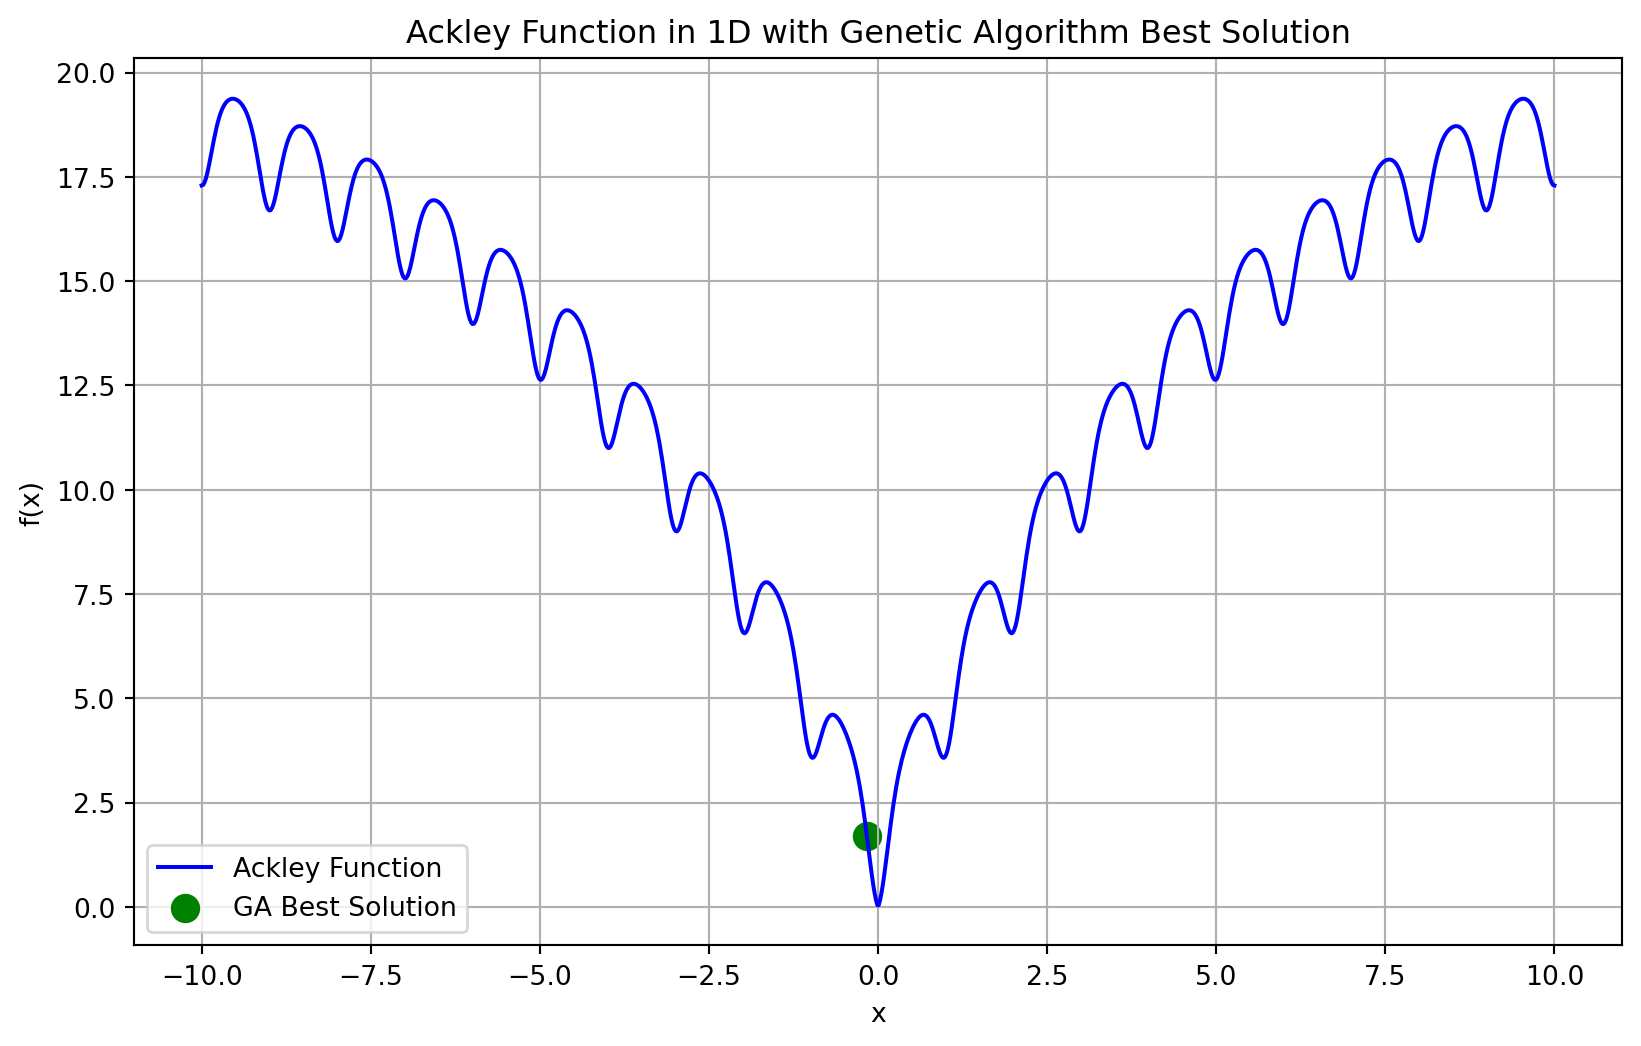
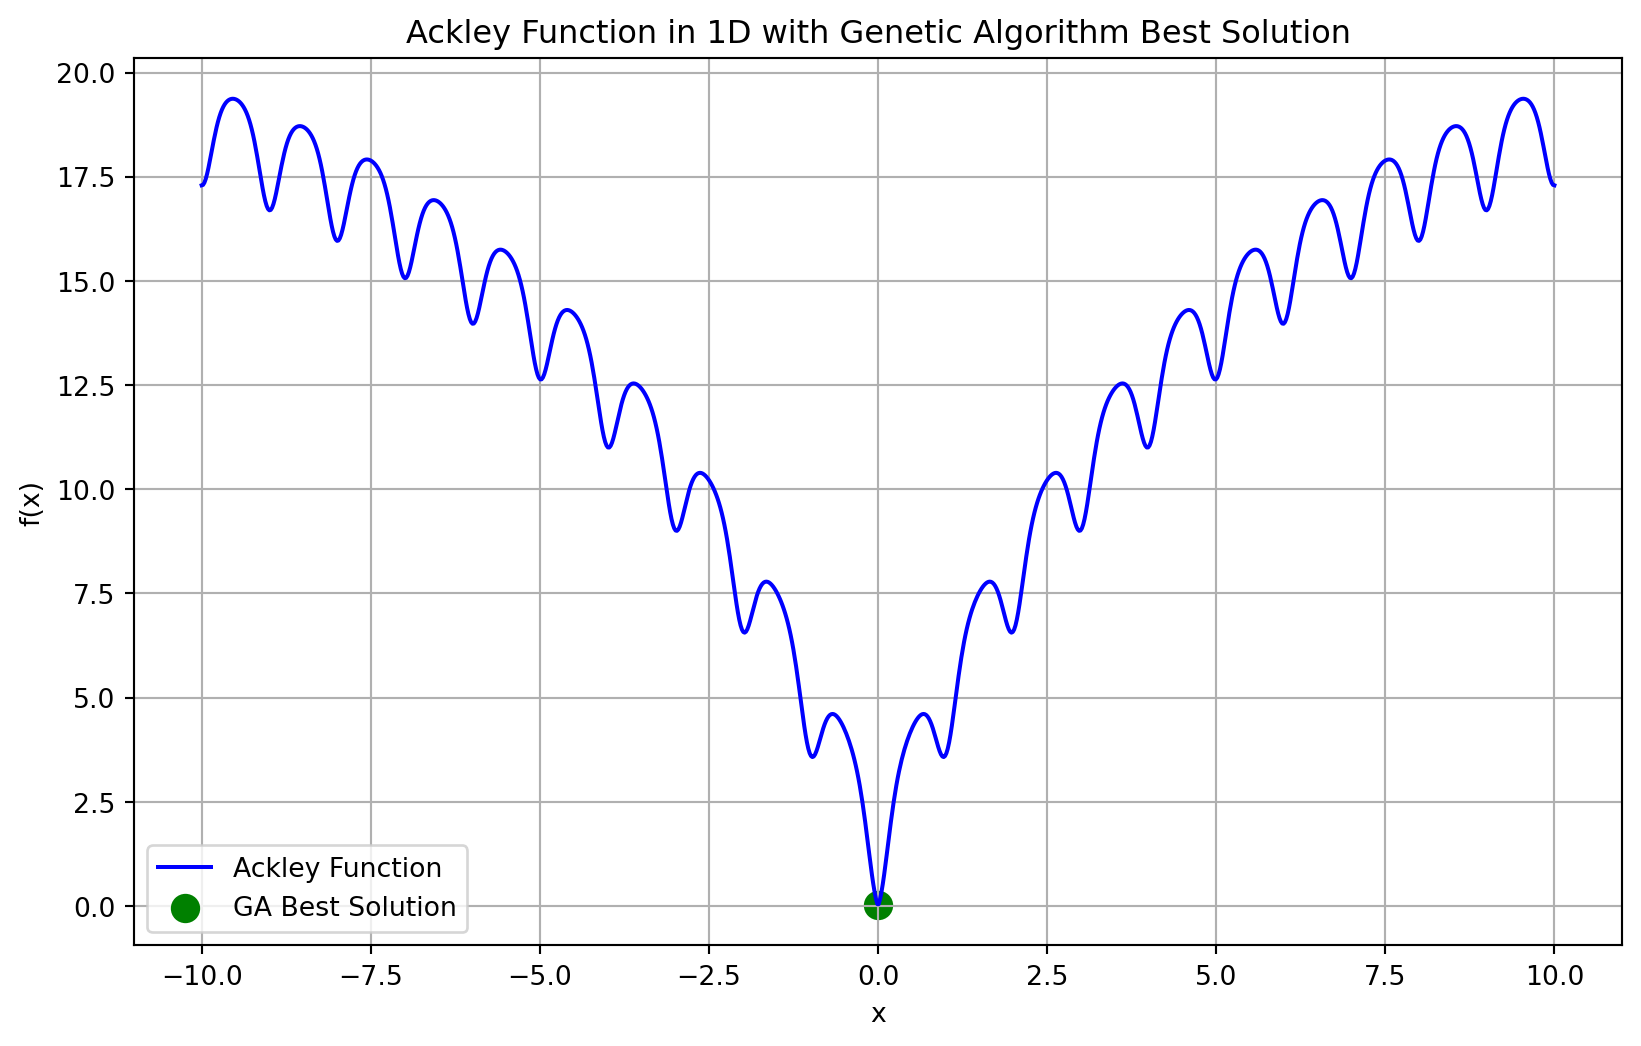
update GA

diff --git a/docs/ga.html b/docs/ga.html
@@ -292,11 +292,7 @@ window.Quarto = {
   <li><a href="#fitness-function-alternatives-in-heuristic-models" id="toc-fitness-function-alternatives-in-heuristic-models" class="nav-link" data-scroll-target="#fitness-function-alternatives-in-heuristic-models">Fitness Function Alternatives in Heuristic Models</a></li>
   <li><a href="#approaches-to-optimize-the-mutation-rate" id="toc-approaches-to-optimize-the-mutation-rate" class="nav-link" data-scroll-target="#approaches-to-optimize-the-mutation-rate">Approaches to Optimize the Mutation Rate</a></li>
   </ul></li>
-  <li><a href="#comparing-ga-to-sa" id="toc-comparing-ga-to-sa" class="nav-link" data-scroll-target="#comparing-ga-to-sa">Comparing GA to SA</a></li>
-  <li><a href="#genetic-algorithms-1" id="toc-genetic-algorithms-1" class="nav-link" data-scroll-target="#genetic-algorithms-1">Genetic Algorithms</a>
-  <ul class="collapse">
-  <li><a href="#comparison-with-simulated-annealing-sa" id="toc-comparison-with-simulated-annealing-sa" class="nav-link" data-scroll-target="#comparison-with-simulated-annealing-sa">Comparison with Simulated Annealing (SA)</a></li>
-  </ul></li>
+  <li><a href="#ga-example-one-max" id="toc-ga-example-one-max" class="nav-link" data-scroll-target="#ga-example-one-max">GA Example One Max</a></li>
   <li><a href="#ga-example-ackley" id="toc-ga-example-ackley" class="nav-link" data-scroll-target="#ga-example-ackley">GA Example Ackley</a>
   <ul class="collapse">
   <li><a href="#startup-commands" id="toc-startup-commands" class="nav-link" data-scroll-target="#startup-commands">Startup Commands</a></li>
@@ -309,6 +305,10 @@ window.Quarto = {
   <li><a href="#main-loop" id="toc-main-loop" class="nav-link" data-scroll-target="#main-loop">Main Loop</a></li>
   <li><a href="#main-execution" id="toc-main-execution" class="nav-link" data-scroll-target="#main-execution">Main Execution</a></li>
   <li><a href="#output-o" id="toc-output-o" class="nav-link" data-scroll-target="#output-o">Output (O)</a></li>
+  </ul></li>
+  <li><a href="#comparing-ga-to-sa" id="toc-comparing-ga-to-sa" class="nav-link" data-scroll-target="#comparing-ga-to-sa">Comparing GA to SA</a>
+  <ul class="collapse">
+  <li><a href="#comparison-gasa-with-ackley-function" id="toc-comparison-gasa-with-ackley-function" class="nav-link" data-scroll-target="#comparison-gasa-with-ackley-function">Comparison GA/SA with Ackley FUnction</a></li>
   </ul></li>
   <li><a href="#using-ai" id="toc-using-ai" class="nav-link" data-scroll-target="#using-ai">Using AI</a></li>
   <li><a href="#conclusions" id="toc-conclusions" class="nav-link" data-scroll-target="#conclusions">Conclusions</a></li>
@@ -669,49 +669,9 @@ window.Quarto = {
 </ul>
 </section>
 </section>
-<section id="comparing-ga-to-sa" class="level1">
-<h1>Comparing GA to SA</h1>
-<ul>
-<li>Multiple search directions: Compared to the single-solution-based metaheuristic algorithms (e.g., SA) that search only one solution at a time, GA searches for more than one solution at a time during the convergence process. Since GA will search for multiple directions or regions at a time, its search diversity will normally be much higher than single-solution-based metaheuristics that search for only one direction or region at a time during the convergence process. Selection operator: Another characteristic of GA is that it uses the selection and fitness function operators to determine solutions to be searched, not just based on the objective value of each solution. This kind of mechanism keeps the search process of GA from looking for the best solution in the population all the time so that it will not always choose the solution with the best objective or fitness value to search its neighbors again and again. Consequently, GA will not easily get stuck in local optima at early iterations.</li>
-<li>Crossover operator: This operator is one of the transition operators of GA, which plays the role of exchanging information between parent chromosomes, such as moving portions of the genes of a chromosome to another. This kind of mechanism allows GA to restructure its solutions to form new solutions in such a way that the structure of the new solutions is not confined to the structure of the initial solutions and may even inherit partial structures from their parents; as a consequence, the search process of GA will quickly jump from one region to another in the solution space during the convergence process.</li>
-<li>Mutation operator: This operator is another transition operator of GA, which ensures that the search process of GA is capable of escaping from a local optimum by changing the value of some genes randomly. Of course, this kind of mechanism will also play the role of fine-tuning the chromosomes of GA because only a few genes will be changed at a time.</li>
-</ul>
-</section>
-<section id="genetic-algorithms-1" class="level1">
-<h1>Genetic Algorithms</h1>
-<ul>
-<li>To compare Simulated Annealing (SA) with Genetic Algorithms (GA), we can implement a Genetic Algorithm for the same optimization problem (Ackley function) and then compare the two approaches based on:
-<ul>
-<li>Performance: Compare the final optimized values.</li>
-<li>Convergence Speed: How fast each algorithm converges to a solution.</li>
-<li>Exploration vs.&nbsp;Exploitation: How each method balances searching new areas (exploration) versus refining the current solution (exploitation).</li>
-</ul></li>
-</ul>
-<section id="comparison-with-simulated-annealing-sa" class="level3">
-<h3 class="anchored" data-anchor-id="comparison-with-simulated-annealing-sa">Comparison with Simulated Annealing (SA)</h3>
-<ul>
-<li>Population-based vs.&nbsp;Single Solution:
-<ul>
-<li>GA maintains and evolves a population of solutions.</li>
-<li>SA operates on a single solution and modifies it over time.</li>
-</ul></li>
-<li>Exploration Strategy:
-<ul>
-<li>GA uses crossover and mutation to explore the solution space, encouraging diversity.</li>
-<li>SA explores the space by making probabilistic changes to a single solution, allowing uphill moves early on (controlled by the temperature).</li>
-</ul></li>
-<li>Deterministic vs.&nbsp;Probabilistic:
-<ul>
-<li>GA uses deterministic selection mechanisms, such as tournament selection, and a fixed mutation rate.</li>
-<li>SA uses a temperature mechanism to probabilistically accept worse solutions early in the search.</li>
-</ul></li>
-<li>Convergence:
-<ul>
-<li>GA uses generations and selection pressure to converge on the best solution over time.</li>
-<li>SA cools down gradually, converging based on the temperature schedule. # GA example One Max</li>
-</ul></li>
-</ul>
-<div id="ead18bc9" class="cell" data-execution_count="1">
+<section id="ga-example-one-max" class="level1">
+<h1>GA Example One Max</h1>
+<div id="07b5520b" class="cell" data-execution_count="1">
 <div class="sourceCode cell-code" id="cb1"><pre class="sourceCode python code-with-copy"><code class="sourceCode python"><span id="cb1-1"><a href="#cb1-1" aria-hidden="true" tabindex="-1"></a><span class="im">import</span> numpy <span class="im">as</span> np</span>
 <span id="cb1-2"><a href="#cb1-2" aria-hidden="true" tabindex="-1"></a><span class="im">import</span> random</span>
 <span id="cb1-3"><a href="#cb1-3" aria-hidden="true" tabindex="-1"></a><span class="im">import</span> matplotlib.pyplot <span class="im">as</span> plt</span>
@@ -807,17 +767,16 @@ window.Quarto = {
 <div class="cell-output cell-output-stdout">
 <pre><code>Best solution: [1 1 1 1 1 1 1 1 1 1]
 Best fitness (one-max value): 10
-Execution time: 0.073588 seconds</code></pre>
+Execution time: 0.066705 seconds</code></pre>
 </div>
 <div class="cell-output cell-output-display">
 <div>
 <figure class="figure">
-<p><img src="ga_files/figure-html/cell-2-output-2.png" width="829" height="523" class="figure-img"></p>
+<p><img src="ga_files/figure-html/cell-2-output-2.png" width="821" height="523" class="figure-img"></p>
 </figure>
 </div>
 </div>
 </div>
-</section>
 </section>
 <section id="ga-example-ackley" class="level1">
 <h1>GA Example Ackley</h1>
@@ -833,7 +792,7 @@ Execution time: 0.073588 seconds</code></pre>
 </ul>
 <section id="startup-commands" class="level2">
 <h2 class="anchored" data-anchor-id="startup-commands">Startup Commands</h2>
-<div id="182fc9f6" class="cell" data-execution_count="2">
+<div id="137ee347" class="cell" data-execution_count="2">
 <div class="sourceCode cell-code" id="cb3"><pre class="sourceCode python code-with-copy"><code class="sourceCode python"><span id="cb3-1"><a href="#cb3-1" aria-hidden="true" tabindex="-1"></a><span class="co"># Genetic Algorithm Ackley Example (1D)</span></span>
 <span id="cb3-2"><a href="#cb3-2" aria-hidden="true" tabindex="-1"></a></span>
 <span id="cb3-3"><a href="#cb3-3" aria-hidden="true" tabindex="-1"></a><span class="im">import</span> numpy <span class="im">as</span> np</span>
@@ -866,7 +825,7 @@ Execution time: 0.073588 seconds</code></pre>
 <ul>
 <li>A population of solutions is initialized using the init_ga function, where each solution is a random number between -10 and 10, as per the problem domain.</li>
 </ul>
-<div id="c8eb5b00" class="cell" data-execution_count="3">
+<div id="195c9e2c" class="cell" data-execution_count="3">
 <div class="sourceCode cell-code" id="cb4"><pre class="sourceCode python code-with-copy"><code class="sourceCode python"><span id="cb4-1"><a href="#cb4-1" aria-hidden="true" tabindex="-1"></a><span class="co"># Initialization function (I) to set the starting point</span></span>
 <span id="cb4-2"><a href="#cb4-2" aria-hidden="true" tabindex="-1"></a><span class="kw">def</span> init_ga(pop_size):</span>
 <span id="cb4-3"><a href="#cb4-3" aria-hidden="true" tabindex="-1"></a>    <span class="cf">return</span> np.random.uniform(<span class="op">-</span><span class="dv">10</span>, <span class="dv">10</span>, (pop_size, <span class="dv">1</span>))</span></code><button title="Copy to Clipboard" class="code-copy-button"><i class="bi"></i></button></pre></div>
@@ -877,7 +836,7 @@ Execution time: 0.073588 seconds</code></pre>
 <ul>
 <li>The fitness of each solution in the population is evaluated using the Ackley function.The best solution found so far is updated by comparing the current population’s fitness values.</li>
 </ul>
-<div id="50138c89" class="cell" data-execution_count="4">
+<div id="b169ef29" class="cell" data-execution_count="4">
 <div class="sourceCode cell-code" id="cb5"><pre class="sourceCode python code-with-copy"><code class="sourceCode python"><span id="cb5-1"><a href="#cb5-1" aria-hidden="true" tabindex="-1"></a><span class="co"># Evaluation function (E)</span></span>
 <span id="cb5-2"><a href="#cb5-2" aria-hidden="true" tabindex="-1"></a><span class="kw">def</span> evaluate(pop):</span>
 <span id="cb5-3"><a href="#cb5-3" aria-hidden="true" tabindex="-1"></a>    <span class="cf">return</span> np.array([ackley(ind) <span class="cf">for</span> ind <span class="kw">in</span> pop])</span></code><button title="Copy to Clipboard" class="code-copy-button"><i class="bi"></i></button></pre></div>
@@ -893,7 +852,7 @@ Execution time: 0.073588 seconds</code></pre>
 </ul></li>
 <li>This ensures that best_sol and best_obj_val always store the best solution and its fitness value found across all generations during the algorithm’s execution. The use of global allows the function to modify these variables outside its local scope.</li>
 </ul>
-<div id="59d66ac3" class="cell" data-execution_count="5">
+<div id="21fd17b9" class="cell" data-execution_count="5">
 <div class="sourceCode cell-code" id="cb6"><pre class="sourceCode python code-with-copy"><code class="sourceCode python"><span id="cb6-1"><a href="#cb6-1" aria-hidden="true" tabindex="-1"></a><span class="co"># Update best solution function</span></span>
 <span id="cb6-2"><a href="#cb6-2" aria-hidden="true" tabindex="-1"></a><span class="kw">def</span> update_best_sol(curr_pop, curr_obj_vals):</span>
 <span id="cb6-3"><a href="#cb6-3" aria-hidden="true" tabindex="-1"></a>    <span class="kw">global</span> best_sol, best_obj_val</span>
@@ -914,7 +873,7 @@ Execution time: 0.073588 seconds</code></pre>
 <li>The function returns the newly selected population as a NumPy array.</li>
 </ul></li>
 </ul>
-<div id="f07de99e" class="cell" data-execution_count="6">
+<div id="2c54dafc" class="cell" data-execution_count="6">
 <div class="sourceCode cell-code" id="cb7"><pre class="sourceCode python code-with-copy"><code class="sourceCode python"><span id="cb7-1"><a href="#cb7-1" aria-hidden="true" tabindex="-1"></a><span class="co"># Determination (D)</span></span>
 <span id="cb7-2"><a href="#cb7-2" aria-hidden="true" tabindex="-1"></a><span class="co"># Selection function using tournament selection</span></span>
 <span id="cb7-3"><a href="#cb7-3" aria-hidden="true" tabindex="-1"></a><span class="kw">def</span> select(curr_pop, curr_obj_vals, num_players):</span>
@@ -936,7 +895,7 @@ Execution time: 0.073588 seconds</code></pre>
 <li>A crossover point is chosen randomly (here, using np.random.randint(1)), which specifies where the two parent solutions will exchange segments. The segments of the two parent solutions from the crossover point onward are swapped, creating two new offspring solutions.</li>
 <li>If the random number is greater than the crossover_rate, no crossover occurs, and the parent solutions remain unchanged. The function returns the new_pop containing the modified population after applying the crossover operation.</li>
 </ul>
-<div id="916ba73b" class="cell" data-execution_count="7">
+<div id="854e95fb" class="cell" data-execution_count="7">
 <div class="sourceCode cell-code" id="cb8"><pre class="sourceCode python code-with-copy"><code class="sourceCode python"><span id="cb8-1"><a href="#cb8-1" aria-hidden="true" tabindex="-1"></a><span class="co"># Transition function (T): Crossover and Mutation</span></span>
 <span id="cb8-2"><a href="#cb8-2" aria-hidden="true" tabindex="-1"></a><span class="co"># Crossover function (T)</span></span>
 <span id="cb8-3"><a href="#cb8-3" aria-hidden="true" tabindex="-1"></a><span class="kw">def</span> crossover(pop, crossover_rate):</span>
@@ -958,7 +917,7 @@ Execution time: 0.073588 seconds</code></pre>
 <li>Mutation: Random mutations are introduced in the offspring solutions to maintain diversity and avoid premature convergence.</li>
 <li>It introduces random changes to a population of solutions in a genetic algorithm. It iterates over each individual in the population (pop) and, with a probability specified by the mutation_rate, replaces the current individual with a new value randomly drawn from a uniform distribution between -10 and 10. This random alteration helps maintain diversity in the population, enabling the genetic algorithm to explore new areas of the solution space and avoid premature convergence. The modified population is returned at the end of the function.</li>
 </ul>
-<div id="a1ed74c8" class="cell" data-execution_count="8">
+<div id="57a9458f" class="cell" data-execution_count="8">
 <div class="sourceCode cell-code" id="cb9"><pre class="sourceCode python code-with-copy"><code class="sourceCode python"><span id="cb9-1"><a href="#cb9-1" aria-hidden="true" tabindex="-1"></a><span class="co"># Mutation function (M)</span></span>
 <span id="cb9-2"><a href="#cb9-2" aria-hidden="true" tabindex="-1"></a><span class="kw">def</span> mutation(pop, mutation_rate):</span>
 <span id="cb9-3"><a href="#cb9-3" aria-hidden="true" tabindex="-1"></a>    <span class="cf">for</span> i <span class="kw">in</span> <span class="bu">range</span>(<span class="bu">len</span>(pop)):</span>
@@ -973,7 +932,7 @@ Execution time: 0.073588 seconds</code></pre>
 <li>The algorithm iterates through a fixed number of generations (iterations). Each generation represents an iteration of evolving the population to improve the solutions.</li>
 <li>The new population (after crossover and mutation) replaces the old one for the next generation.</li>
 </ul>
-<div id="09746347" class="cell" data-execution_count="9">
+<div id="574373b5" class="cell" data-execution_count="9">
 <div class="sourceCode cell-code" id="cb10"><pre class="sourceCode python code-with-copy"><code class="sourceCode python"><span id="cb10-1"><a href="#cb10-1" aria-hidden="true" tabindex="-1"></a><span class="co"># Genetic Algorithm function (D)</span></span>
 <span id="cb10-2"><a href="#cb10-2" aria-hidden="true" tabindex="-1"></a><span class="kw">def</span> genetic_algorithm():</span>
 <span id="cb10-3"><a href="#cb10-3" aria-hidden="true" tabindex="-1"></a>    <span class="kw">global</span> best_sol, best_obj_val</span>
@@ -993,7 +952,7 @@ Execution time: 0.073588 seconds</code></pre>
 </section>
 <section id="main-execution" class="level2">
 <h2 class="anchored" data-anchor-id="main-execution">Main Execution</h2>
-<div id="bc80bacf" class="cell" data-execution_count="10">
+<div id="e21853a9" class="cell" data-execution_count="10">
 <div class="sourceCode cell-code" id="cb11"><pre class="sourceCode python code-with-copy"><code class="sourceCode python"><span id="cb11-1"><a href="#cb11-1" aria-hidden="true" tabindex="-1"></a><span class="co"># Main execution</span></span>
 <span id="cb11-2"><a href="#cb11-2" aria-hidden="true" tabindex="-1"></a>start_time <span class="op">=</span> time.time()</span>
 <span id="cb11-3"><a href="#cb11-3" aria-hidden="true" tabindex="-1"></a>best_solution, best_value <span class="op">=</span> genetic_algorithm()</span>
@@ -1003,7 +962,7 @@ Execution time: 0.073588 seconds</code></pre>
 </section>
 <section id="output-o" class="level2">
 <h2 class="anchored" data-anchor-id="output-o">Output (O)</h2>
-<div id="7ca5467a" class="cell" data-execution_count="11">
+<div id="56dac46b" class="cell" data-execution_count="11">
 <div class="sourceCode cell-code" id="cb12"><pre class="sourceCode python code-with-copy"><code class="sourceCode python"><span id="cb12-1"><a href="#cb12-1" aria-hidden="true" tabindex="-1"></a><span class="co"># Output (O)</span></span>
 <span id="cb12-2"><a href="#cb12-2" aria-hidden="true" tabindex="-1"></a><span class="bu">print</span>(<span class="ss">f"Optimal solution: </span><span class="sc">{</span>best_solution<span class="sc">}</span><span class="ss">"</span>)</span>
 <span id="cb12-3"><a href="#cb12-3" aria-hidden="true" tabindex="-1"></a><span class="bu">print</span>(<span class="ss">f"Optimal value: </span><span class="sc">{</span>best_value<span class="sc">}</span><span class="ss">"</span>)</span>
@@ -1023,9 +982,9 @@ Execution time: 0.073588 seconds</code></pre>
 <span id="cb12-17"><a href="#cb12-17" aria-hidden="true" tabindex="-1"></a>plt.grid(<span class="va">True</span>)</span>
 <span id="cb12-18"><a href="#cb12-18" aria-hidden="true" tabindex="-1"></a>plt.show()</span></code><button title="Copy to Clipboard" class="code-copy-button"><i class="bi"></i></button></pre></div>
 <div class="cell-output cell-output-stdout">
-<pre><code>Optimal solution: [-0.16435561]
-Optimal value: 1.695519868325246
-Execution time for Genetic Algorithm: 0.103253 seconds</code></pre>
+<pre><code>Optimal solution: [0.00493395]
+Optimal value: 0.021031863831375563
+Execution time for Genetic Algorithm: 0.108576 seconds</code></pre>
 </div>
 <div class="cell-output cell-output-display">
 <div>
@@ -1035,6 +994,45 @@ Execution time for Genetic Algorithm: 0.103253 seconds</code></pre>
 </div>
 </div>
 </div>
+</section>
+</section>
+<section id="comparing-ga-to-sa" class="level1">
+<h1>Comparing GA to SA</h1>
+<ul>
+<li>Multiple search directions: Compared to the single-solution-based metaheuristic algorithms (e.g., SA) that search only one solution at a time, GA searches for more than one solution at a time during the convergence process. Since GA will search for multiple directions or regions at a time, its search diversity will normally be much higher than single-solution-based metaheuristics that search for only one direction or region at a time during the convergence process. Selection operator: Another characteristic of GA is that it uses the selection and fitness function operators to determine solutions to be searched, not just based on the objective value of each solution. This kind of mechanism keeps the search process of GA from looking for the best solution in the population all the time so that it will not always choose the solution with the best objective or fitness value to search its neighbors again and again. Consequently, GA will not easily get stuck in local optima at early iterations.</li>
+<li>Crossover operator: This operator is one of the transition operators of GA, which plays the role of exchanging information between parent chromosomes, such as moving portions of the genes of a chromosome to another. This kind of mechanism allows GA to restructure its solutions to form new solutions in such a way that the structure of the new solutions is not confined to the structure of the initial solutions and may even inherit partial structures from their parents; as a consequence, the search process of GA will quickly jump from one region to another in the solution space during the convergence process.</li>
+<li>Mutation operator: This operator is another transition operator of GA, which ensures that the search process of GA is capable of escaping from a local optimum by changing the value of some genes randomly. Of course, this kind of mechanism will also play the role of fine-tuning the chromosomes of GA because only a few genes will be changed at a time.</li>
+</ul>
+<section id="comparison-gasa-with-ackley-function" class="level3">
+<h3 class="anchored" data-anchor-id="comparison-gasa-with-ackley-function">Comparison GA/SA with Ackley FUnction</h3>
+<ul>
+<li>To compare Simulated Annealing (SA) with Genetic Algorithms (GA), we can implement a Genetic Algorithm for the same optimization problem (Ackley function) and then compare the two approaches based on:
+<ul>
+<li>Performance: Compare the final optimized values.</li>
+<li>Convergence Speed: How fast each algorithm converges to a solution.</li>
+<li>Exploration vs.&nbsp;Exploitation: How each method balances searching new areas (exploration) versus refining the current solution (exploitation).</li>
+</ul></li>
+<li>Population-based vs.&nbsp;Single Solution:
+<ul>
+<li>GA maintains and evolves a population of solutions.</li>
+<li>SA operates on a single solution and modifies it over time.</li>
+</ul></li>
+<li>Exploration Strategy:
+<ul>
+<li>GA uses crossover and mutation to explore the solution space, encouraging diversity.</li>
+<li>SA explores the space by making probabilistic changes to a single solution, allowing uphill moves early on (controlled by the temperature).</li>
+</ul></li>
+<li>Deterministic vs.&nbsp;Probabilistic:
+<ul>
+<li>GA uses deterministic selection mechanisms, such as tournament selection, and a fixed mutation rate.</li>
+<li>SA uses a temperature mechanism to probabilistically accept worse solutions early in the search.</li>
+</ul></li>
+<li>Convergence:
+<ul>
+<li>GA uses generations and selection pressure to converge on the best solution over time.</li>
+<li>SA cools down gradually, converging based on the temperature schedule.</li>
+</ul></li>
+</ul>
 </section>
 </section>
 <section id="using-ai" class="level1">
